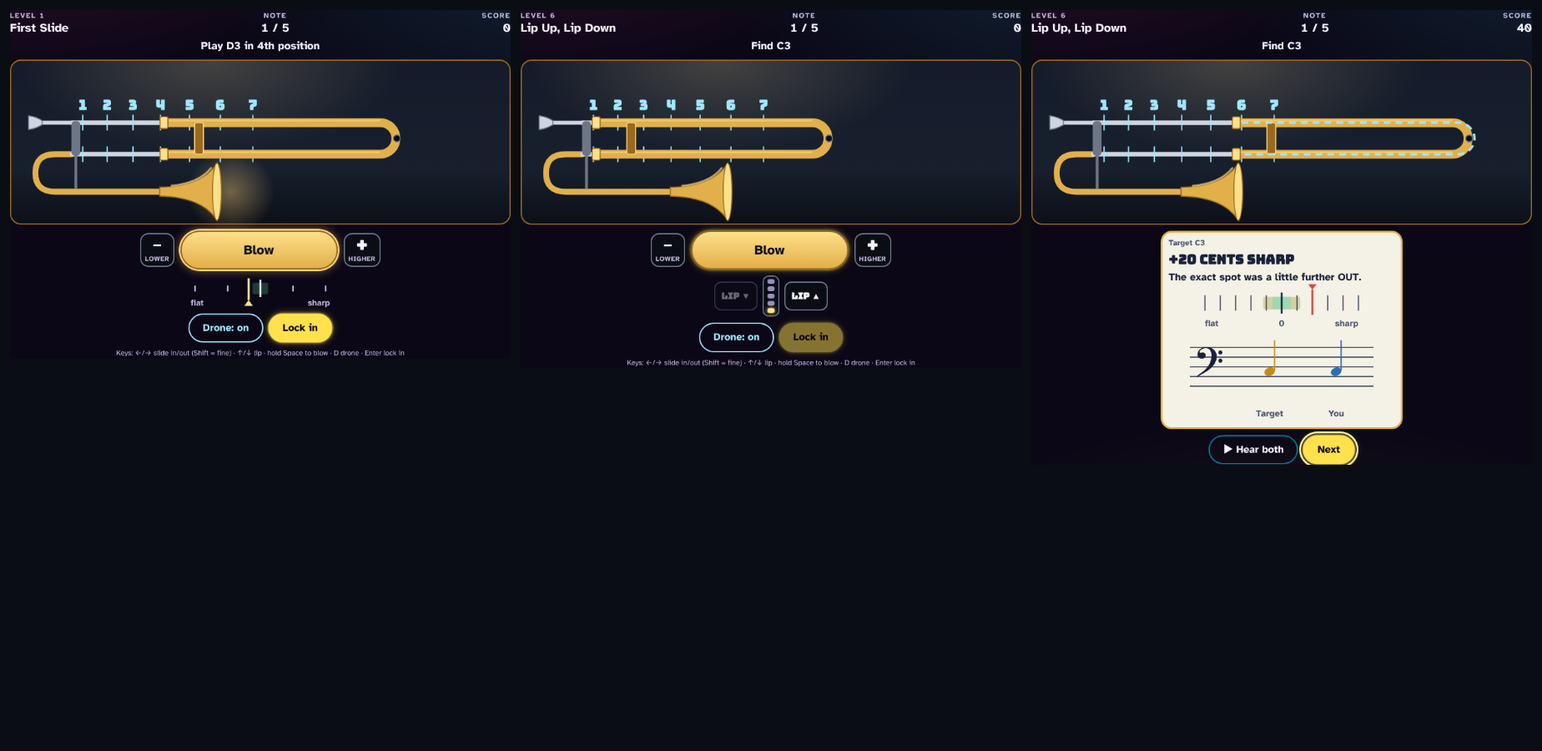
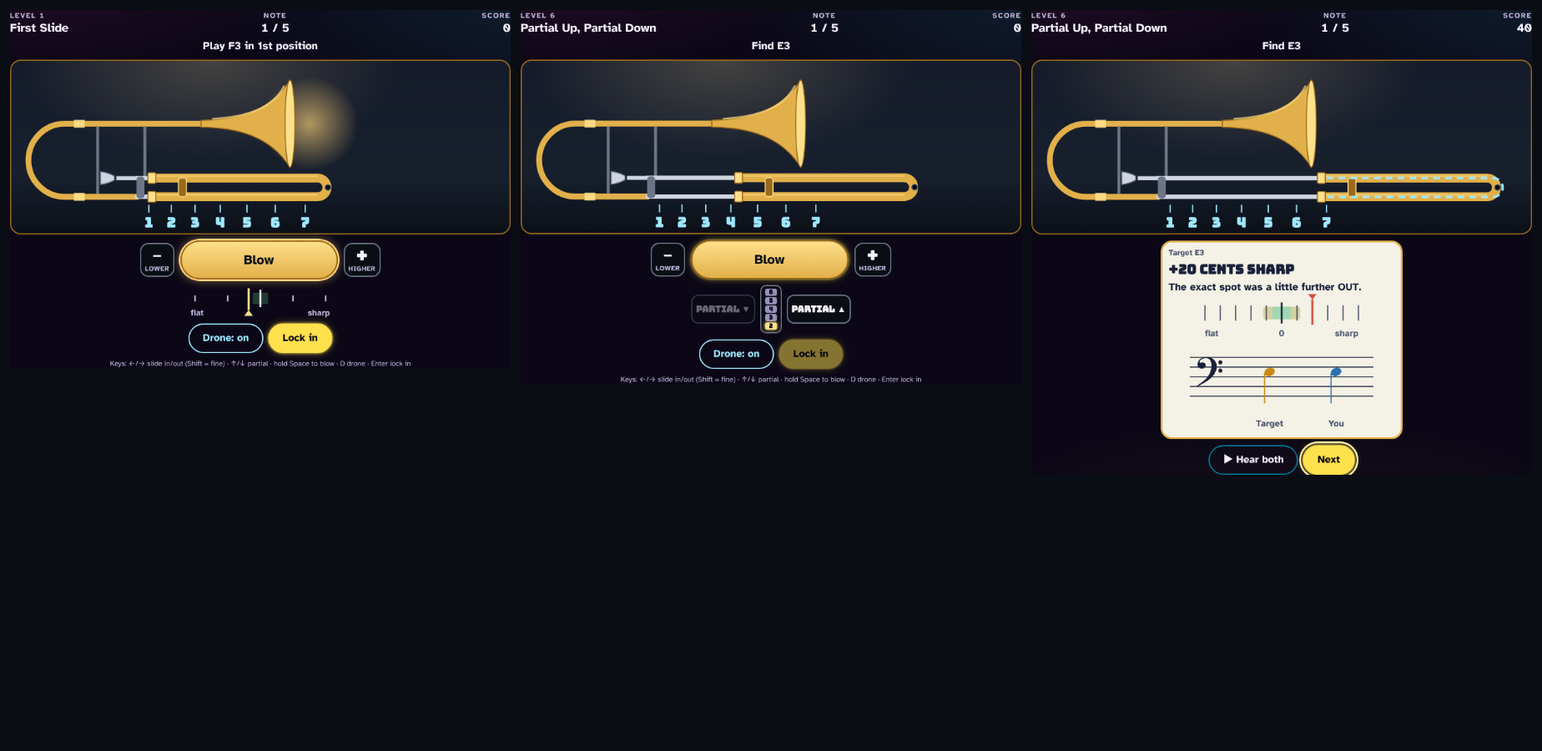
Slide Quest: a correctly assembled trombone; PARTIAL instead of LIP everywhere students read it
THE TROMBONE (game.js hornSVG), from Mr. Graham's reference photo: the bell section on top (the tuning slide's
crook at the far left, the bell ABOVE the slide pointing forward, the back tube to the slide lock, braces), the slide
underneath reaching past the bell (the mouthpiece pointing back at the player, chrome inner slide, brass outer slide
with crook, bumper, ferrules and grip). The marks move to a ruler under the slide so the moving tubes never hide them.
Travel = 340 of 1000 units (was 370), to fit the bell section. The level cards' icon and the cabinet screen's
little trombone get the same assembly (they had the bell below the slide).

PARTIAL: the buttons (PARTIAL ▲ / ▼), level 6 "Partial Up, Partial Down", the intros and ideas of levels 1, 6 and 8,
the key legend, "try another partial"; the ladder now shows the partial numbers (6 down to 2), the current one lit.
Code and test names (lips, lip(n), #lipUp/#lipDown) are unchanged.

Tests: the drag test's px-per-cm uses the new 340 units. docs/games/slide-quest.md and the gallery updated.

Claude-Session: https://claude.ai/code/session_01EHMqPSmL35a4mNPh642dX2

diff --git a/slide-quest/game.js b/slide-quest/game.js
@@ -25,50 +25,60 @@
   const gd = () => A.store.gameData(GAME_ID);
   const save = patch => { Object.assign(gd(), patch); A.store.saveGameData(GAME_ID); };
 
-  /* ================= THE TROMBONE (an SVG, seen from the side) =================
-     The viewBox's units: the mouthpiece and the bell section on the LEFT (fixed), the inner slide tubes (fixed, chrome)
-     and the OUTER SLIDE (brass, with its crook and the grip) that moves to the RIGHT: 0–60 cm of travel = `travel` units.
-     The marks sit on the inner slide where the outer slide's left edge (its ferrules) lines up for each position. */
-  const V = {w: 1000, h: 320, top: 118, bot: 182, in0: 118, in1: 560, out0: 140, out1: 580, travel: 370};
+  /* ================= THE TROMBONE (an SVG, seen from the side, assembled like the real thing) =================
+     Left to right, as a trombone looks from the side with the bell pointing forward (to the right):
+       THE BELL SECTION (fixed, brass): the TUNING SLIDE's crook at the far left joins its two tubes. The UPPER tube runs
+         forward and flares into the BELL, ABOVE the slide; the LOWER (back) tube runs forward under it to the slide lock.
+         Two braces hold them together; a third ties the bell tube to the inner slide's stocking.
+       THE SLIDE (below the bell, reaching past it): the MOUTHPIECE points back toward the player from the upper slide
+         tube; the INNER SLIDE (fixed, chrome) and the OUTER SLIDE (brass, with its crook, bumper and the grip) that moves
+         to the RIGHT: 0–60 cm of travel = `travel` units.
+     The marks sit on a ruler under the slide, where the outer slide's front edge (its ferrules) lines up for each
+     position, so they never hide behind the moving tubes. */
+  const V = {w: 1000, h: 340, top: 230, bot: 268, in0: 250, in1: 600, out0: 274, out1: 612, travel: 340,
+    bell: {y: 120, throat: 380, rim: 560, half: 88}, crook: 104, braceA: 170};
   const PXCM = V.travel / SLIDE.travel;
   const R = (V.bot - V.top) / 2;
   const outerPath = `M${V.out0} ${V.top}H${V.out1}A${R} ${R} 0 0 1 ${V.out1} ${V.bot}H${V.out0}`;
   function hornSVG({marks = true, tuning = 'ideal', mini = false} = {}) {
-    const by = 258;
-    let s = `<svg class="sq-horn${mini ? ' sq-mini' : ''}" viewBox="0 0 ${V.w} ${V.h}" ${mini ? 'aria-hidden="true"' : 'role="img" aria-label="A trombone seen from the side: the bell on the left, the slide on the right"'}>`;
+    const B = V.bell, by = B.y, cr = (V.bot - by) / 2, cy = (V.bot + by) / 2;
+    let s = `<svg class="sq-horn${mini ? ' sq-mini' : ''}" viewBox="0 0 ${V.w} ${V.h}" ${mini ? 'aria-hidden="true"' : 'role="img" aria-label="A trombone seen from the side: the bell on top pointing forward, the slide underneath reaching out to the right"'}>`;
     if (!mini) s += `<defs><radialGradient id="sqGlow"><stop offset="0" stop-color="var(--sq-glow)" stop-opacity=".85"/><stop offset="1" stop-color="var(--sq-glow)" stop-opacity="0"/></radialGradient></defs>` +
-      `<ellipse class="sq-bellglow" cx="440" cy="${by}" rx="90" ry="86" fill="url(#sqGlow)"/>`;
-    // the bell section: the lower inner tube runs back to the tuning slide's crook, then forward to the bell
-    s += `<path class="sq-tube" d="M${V.in0} ${V.bot}H84Q44 ${V.bot} 44 ${(V.bot + by) / 2}Q44 ${by} 84 ${by}H300"/>` +
-      `<path class="sq-bell" d="M296 ${by - 9}C352 ${by - 10} 392 ${by - 26} 412 ${by - 58}L412 ${by + 58}C392 ${by + 26} 352 ${by + 10} 296 ${by + 9}Z"/>` +
-      `<ellipse class="sq-rim" cx="412" cy="${by}" rx="9" ry="58"/>` +
-      `<path class="sq-shine" d="M320 ${by - 12}C360 ${by - 16} 386 ${by - 30} 400 ${by - 48}"/>` +
-      // the mouthpiece and the inner slide (fixed)
-      `<path class="sq-shank" d="M58 ${V.top}H${V.in0}"/><path class="sq-mp" d="M30 ${V.top - 14}Q46 ${V.top - 12} 58 ${V.top - 4}V${V.top + 4}Q46 ${V.top + 12} 30 ${V.top + 14}Z"/>` +
+      `<ellipse class="sq-bellglow" cx="${B.rim + 40}" cy="${by}" rx="100" ry="${B.half + 8}" fill="url(#sqGlow)"/>`;
+    // THE BELL SECTION: the back tube from the slide lock to the tuning slide's crook, round the crook, then forward to the bell
+    s += `<path class="sq-tube" d="M${V.in0} ${V.bot}H${V.crook}A${cr} ${cr} 0 0 1 ${V.crook} ${by}H${B.throat + 4}"/>` +
+      `<path class="sq-tslide" d="M${V.crook + 18} ${V.bot}H${V.crook + 40}M${V.crook + 18} ${by}H${V.crook + 40}"/>` +       // the tuning slide's ferrules
+      `<path class="sq-brace" d="M${V.braceA} ${by + 6}V${V.bot - 6}"/>` +
+      `<path class="sq-brace" d="M${V.in0 + 16} ${by + 6}V${V.top - 4}"/>` +
+      `<path class="sq-bell" d="M${B.throat} ${by - 7}C${B.throat + 74} ${by - 8} ${B.rim - 40} ${by - 25} ${B.rim} ${by - B.half}L${B.rim} ${by + B.half}C${B.rim - 40} ${by + 25} ${B.throat + 74} ${by + 8} ${B.throat} ${by + 7}Z"/>` +
+      `<ellipse class="sq-rim" cx="${B.rim}" cy="${by}" rx="10" ry="${B.half}"/>` +
+      `<path class="sq-shine" d="M${B.throat + 24} ${by - 10}C${B.throat + 90} ${by - 14} ${B.rim - 36} ${by - 30} ${B.rim - 12} ${by - B.half + 12}"/>` +
+      // THE SLIDE: the mouthpiece (pointing back at the player), the inner slide (fixed) and its stocking brace
+      `<path class="sq-shank" d="M${V.in0 - 42} ${V.top}H${V.in0}"/><path class="sq-mp" d="M${V.in0 - 74} ${V.top - 13}Q${V.in0 - 58} ${V.top - 11} ${V.in0 - 46} ${V.top - 4}V${V.top + 4}Q${V.in0 - 58} ${V.top + 11} ${V.in0 - 74} ${V.top + 13}Z"/>` +
       `<path class="sq-inner" d="M${V.in0} ${V.top}H${V.in1}M${V.in0} ${V.bot}H${V.in1}"/>` +
-      `<rect class="sq-brace" x="${V.in0 + 2}" y="${V.top}" width="12" height="${V.bot - V.top}" rx="4"/>` +
-      `<path class="sq-brace" d="M${V.in0 + 8} ${V.bot}V${by - 6}" />`;
-    // THE MARKS: the 7 positions at their TRUE spots (the gaps grow)
+      `<rect class="sq-brace" x="${V.in0 + 2}" y="${V.top}" width="10" height="${V.bot - V.top}" rx="3"/>`;
+    // THE MARKS: the 7 positions at their TRUE spots (the gaps grow), on a ruler under the slide
     s += `<g class="sq-marks"${mini ? '' : ' id="marks"'}${marks ? '' : ' hidden'}>`;
     for (let k = 1; k <= SLIDE.positions; k++) {
       const X = (V.out0 + SL.markX(k, tuning) * PXCM).toFixed(1);
-      s += `<path class="sq-mark" d="M${X} ${V.top - 16}V${V.top + 16}M${X} ${V.bot - 16}V${V.bot + 16}"/><text class="sq-mk" x="${X}" y="${V.top - 26}" text-anchor="middle">${k}</text>`;
+      s += `<path class="sq-mark" d="M${X} ${V.bot + 16}V${V.bot + 32}"/><text class="sq-mk" x="${X}" y="${V.bot + 62}" text-anchor="middle">${k}</text>`;
     }
     s += '</g>';
     // THE OUTER SLIDE (moves): the two tubes, the crook, the ferrules, the grip, and a hit area for the finger
     s += `<g class="sq-outer"${mini ? '' : ' id="outer" role="slider" aria-label="The slide: drag it out (lower) or in (higher)" aria-valuemin="0" aria-valuemax="' + SLIDE.travel + '"'}>` +
       `<path class="sq-otube" d="${outerPath}"/>` +
       `<path class="sq-otube-hi" d="M${V.out0 + 4} ${V.top - 4}H${V.out1}M${V.out0 + 4} ${V.bot - 4}H${V.out1}"/>` +
-      `<rect class="sq-ferrule" x="${V.out0 - 6}" y="${V.top - 12}" width="16" height="24" rx="3"/><rect class="sq-ferrule" x="${V.out0 - 6}" y="${V.bot - 12}" width="16" height="24" rx="3"/>` +
-      `<rect class="sq-grip" x="${V.out0 + 64}" y="${V.top}" width="18" height="${V.bot - V.top}" rx="5"/>` +
-      `<circle class="sq-bumper" cx="${V.out1 + R + 2}" cy="${(V.top + V.bot) / 2}" r="7"/>` +
-      (mini ? '' : `<rect class="sq-hit" x="${V.out0 - 24}" y="${V.top - 40}" width="${V.out1 + R - V.out0 + 48}" height="${V.bot - V.top + 80}"/>`) +
+      `<rect class="sq-ferrule" x="${V.out0 - 6}" y="${V.top - 11}" width="16" height="22" rx="3"/><rect class="sq-ferrule" x="${V.out0 - 6}" y="${V.bot - 11}" width="16" height="22" rx="3"/>` +
+      `<rect class="sq-grip" x="${V.out0 + 56}" y="${V.top}" width="16" height="${V.bot - V.top}" rx="5"/>` +
+      `<circle class="sq-bumper" cx="${V.out1 + R + 2}" cy="${(V.top + V.bot) / 2}" r="6"/>` +
+      (mini ? '' : `<rect class="sq-hit" x="${V.out0 - 24}" y="${V.top - 36}" width="${V.out1 + R - V.out0 + 48}" height="${V.bot - V.top + 72}"/>`) +
       `</g>`;
     // the ghost: where the exact spot was (after LOCK IN), drawn over the slide so it shows even when it's close
     if (!mini) s += `<g class="sq-ghost" id="ghost" hidden><path d="${outerPath}"/></g>`;
     return s + '</svg>';
   }
-  const SLIDE_ICON = `<svg viewBox="0 0 48 24" aria-hidden="true"><path class="si-bell" d="M4 15C10 15 13 13 15 9V22C13 18 10 16 4 16Z"/><path class="si-in" d="M6 6H30M6 12H30"/><path class="si-out" d="M20 6H38A3 3 0 0 1 38 12H20"/></svg>`;
+  /* the level cards' little trombone: the bell on top, the slide underneath (the same assembly as the big one) */
+  const SLIDE_ICON = `<svg viewBox="0 0 48 24" aria-hidden="true"><path class="si-out" d="M17 17H7A5 5 0 0 1 7 7H19"/><path class="si-bell" d="M18 6C24 6 27 4 29 1V13C27 10 24 8 18 8Z"/><path class="si-in" d="M13 15H36M13 19.5H36"/><path class="si-out" d="M19 15H42A2.25 2.25 0 0 1 42 19.5H19"/></svg>`;
 
   /* ================= THE LEVEL SELECT ================= */
   const prog = lv => A.store.level(GAME_ID, 'all', lv);
@@ -113,7 +123,7 @@
     $('lips').hidden = !L.lips;
     $('needle').hidden = !L.needle;
     $('droneBtn').hidden = L.ref !== 'drone';
-    $('ladder').innerHTML = SLIDE.partials.slice().reverse().map(n => `<i data-n="${n}"></i>`).join('');
+    $('ladder').innerHTML = SLIDE.partials.slice().reverse().map(n => `<i data-n="${n}">${n}</i>`).join('');
     A.holdGuard($('stage'), {lock: true});
     A.holdGuard($('blowBtn'), {lock: true});
     dragSlide($('outer'));
@@ -358,7 +368,7 @@
     ], {width: 320, label: `Target ${SL.label(r.target)}, you ${SL.label(Math.round(r.midi))} ${fmtCents(r.cents)}`});
   }
   function spotLine(r) {
-    if (r.wrongLip) return 'That was a different note: try another lip setting.';
+    if (r.wrongLip) return 'That was a different note: try another partial.';
     if (r.abs <= SCORING.bullseye) return 'Right there!';
     return `The exact spot was a little further ${r.spot > r.x ? 'OUT' : 'IN'}.`;
   }

diff --git a/slide-quest/levels.js b/slide-quest/levels.js
@@ -5,7 +5,7 @@
               partial about 14 cents flat at its mark; the tuning slide leaves room to push it up): slide.js
      partials the pool the targets come from (partials 2–6)
      focus    optional {partial, rounds}: at least this many of the level's rounds are on that partial
-     lips     true = LIP ▲ / ▼ choose the partial yourself (the round starts on another one); else it's locked to the
+     lips     true = PARTIAL ▲ / ▼ choose the partial yourself (the round starts on another one); else it's locked to the
               target's
      ref      'drone' = THE TUNING DRONE (held; DRONE ON/OFF; it starts ON by itself at the start of each round)
               'once'  = the note plays once, at the start of the round, and never again
@@ -16,7 +16,7 @@
               gameData('slide-quest').earLesson)
      flatTip  after LOCK IN on a 5th-partial target, add "5th-partial notes are flat at the mark: bring the slide IN" */
 window.SQ_LEVELS = [
-  {name: 'First Slide', idea: 'One lip setting, the marks and a needle. Make the beating stop.', tuning: 'ideal', partials: [3], lips: false, ref: 'drone', named: true, told: true, marks: true, needle: true, rounds: 5,
+  {name: 'First Slide', idea: 'One partial, the marks and a needle. Make the beating stop.', tuning: 'ideal', partials: [3], lips: false, ref: 'drone', named: true, told: true, marks: true, needle: true, rounds: 5,
    say: 'Blow into the horn and move the slide. Out = lower, in = higher. Listen to the drone with your note: hear the wah-wah-wah? The slower it beats, the closer you are. When it stops, you match!'},
   {name: 'Find the Spot', idea: 'Named notes. You find the position yourself.', tuning: 'ideal', partials: [2, 3, 4], lips: false, ref: 'drone', named: true, told: false, marks: true, needle: true, rounds: 5,
    say: 'Same game, but you find the position yourself. Notice: the marks get farther apart the farther out you go.'},
@@ -26,12 +26,12 @@ window.SQ_LEVELS = [
    say: 'Real trombones don\'t have marks on the slide. Players find each spot by ear. You can too.'},
   {name: 'From Memory', idea: 'The note plays ONCE. Find it from memory.', tuning: 'ideal', partials: [2, 3, 4], lips: false, ref: 'once', named: false, told: false, marks: false, needle: false, rounds: 5,
    say: 'The note plays once. Hold it in your head, then find it.'},
-  {name: 'Lip Up, Lip Down', idea: 'Your lips pick the note too: LIP ▲ ▼.', tuning: 'ideal', partials: [2, 3, 4, 5], lips: true, ref: 'drone', named: true, told: false, marks: true, needle: false, rounds: 5,
-   say: 'On a trombone your LIPS pick the note too. Each lip setting gives a different family of notes. Use LIP ▲ ▼ and the slide together.'},
+  {name: 'Partial Up, Partial Down', idea: 'Change partials to reach more notes: PARTIAL ▲ ▼.', tuning: 'ideal', partials: [2, 3, 4, 5], lips: true, ref: 'drone', named: true, told: false, marks: true, needle: false, rounds: 5,
+   say: 'On a trombone the slide isn\'t the only thing that picks the note. Each PARTIAL is a different family of notes, and your air and embouchure move you between them. Use PARTIAL ▲ ▼ and the slide together.'},
   {name: 'Real Horn', idea: 'Real horns aren\'t perfectly in tune. Move the slide IN.', tuning: 'real', partials: [3, 4, 5, 6], focus: {partial: 5, rounds: 3}, lips: true, ref: 'drone', named: true, told: true, marks: true, needle: false, rounds: 5, flatTip: true,
    say: 'Real horns aren\'t perfectly in tune. Some notes (like D in 1st position) sit a little flat at their mark. Start at the mark, then listen and move IN until the beats stop. Real players tune with a little room at the top, so they can move flat notes in.'},
-  {name: 'Trust Your Ears', idea: 'The slide, your lips and your ears. No help.', tuning: 'real', partials: [2, 3, 4, 5, 6], lips: true, ref: 'drone', named: false, told: false, marks: false, needle: false, rounds: 5,
-   say: 'Everything at once: the slide, your lips and your ears. No marks, no help. Trust your ears. They\'re the best tuner you own.'},
+  {name: 'Trust Your Ears', idea: 'The slide, the partials and your ears. No help.', tuning: 'real', partials: [2, 3, 4, 5, 6], lips: true, ref: 'drone', named: false, told: false, marks: false, needle: false, rounds: 5,
+   say: 'Everything at once: the slide, the partials and your ears. No marks, no help. Trust your ears. They\'re the best tuner you own.'},
 ];
 
 /* THE SCORING (Pedal Point's PP_SCORING): stars from the AVERAGE error of the level's notes (cents, either way).

diff --git a/shared/cabinets.js b/shared/cabinets.js
@@ -726,12 +726,15 @@ window.Arcade = window.Arcade || {};
         }
         x.stroke();
         if (!d) { x.globalAlpha = Math.min(1, (tt - 4.2) * 2); x.fillStyle = css('sq-brass-hi'); x.font = `700 ${H * .13}px "GN Display", sans-serif`; x.textAlign = 'center'; x.fillText('IN TUNE', W / 2, H * .55); x.globalAlpha = 1; }
-        // the trombone: the bell on the left, the slide moving IN as it comes into tune
-        const y1 = H * .7, y2 = H * .8, ext = W * .3 * d;
+        // the trombone, assembled like the real thing: the bell section on top (the tuning slide's crook at the left, the
+        // bell pointing forward), the slide underneath, moving IN as it comes into tune
+        const y1 = H * .7, y2 = H * .8, by = H * .6, ext = W * .3 * d;
         x.lineCap = 'round';
+        x.strokeStyle = css('sq-brass'); x.lineWidth = Math.max(1.5, H * .022);
+        x.beginPath(); x.moveTo(W * .14, y2); x.lineTo(W * .07, y2); x.arc(W * .07, (y2 + by) / 2, (y2 - by) / 2, Math.PI / 2, Math.PI * 1.5); x.lineTo(W * .16, by); x.stroke();
+        x.fillStyle = css('sq-brass'); x.beginPath(); x.moveTo(W * .15, by - H * .012); x.quadraticCurveTo(W * .26, by - H * .015, W * .3, by - H * .085); x.lineTo(W * .3, by + H * .085); x.quadraticCurveTo(W * .26, by + H * .015, W * .15, by + H * .012); x.closePath(); x.fill();
         x.strokeStyle = css('sq-chrome'); x.lineWidth = Math.max(1.5, H * .02);
         x.beginPath(); x.moveTo(W * .14, y1); x.lineTo(W * .62, y1); x.moveTo(W * .14, y2); x.lineTo(W * .62, y2); x.stroke();
-        x.fillStyle = css('sq-brass'); x.beginPath(); x.moveTo(W * .1, H * .86); x.quadraticCurveTo(W * .3, H * .87, W * .36, H * .78); x.lineTo(W * .36, H * .98); x.quadraticCurveTo(W * .3, H * .89, W * .1, H * .9); x.closePath(); x.fill();
         x.strokeStyle = css('sq-brass'); x.lineWidth = Math.max(2.5, H * .035);
         const o0 = W * .2 + ext, o1 = W * .64 + ext, r = (y2 - y1) / 2;
         x.beginPath(); x.moveTo(o0, y1); x.lineTo(o1, y1); x.arc(o1, y1 + r, r, -Math.PI / 2, Math.PI / 2); x.lineTo(o0, y2); x.stroke();

diff --git a/slide-quest/index.html b/slide-quest/index.html
@@ -47,11 +47,11 @@
         <button type="button" class="sq-nudge" id="nudgeUp" aria-label="Nudge the slide: a little higher (in)">+<small>higher</small></button>
       </div>
       <div class="sq-aids">
-        <!-- THE LIPS (levels with lips): the ladder shows where you are; the partial is never told in words -->
+        <!-- THE PARTIALS (levels with lips): PARTIAL ▲ ▼ and the ladder of partials 2–6, the current one lit -->
         <div class="sq-lips" id="lips" hidden>
-          <button type="button" class="sq-lip" id="lipDown" aria-label="Lip down: a lower family of notes">Lip ▼</button>
+          <button type="button" class="sq-lip" id="lipDown" aria-label="Partial down: the next lower partial">Partial ▼</button>
           <div class="sq-ladder" id="ladder" aria-hidden="true"></div>
-          <button type="button" class="sq-lip" id="lipUp" aria-label="Lip up: a higher family of notes">Lip ▲</button>
+          <button type="button" class="sq-lip" id="lipUp" aria-label="Partial up: the next higher partial">Partial ▲</button>
         </div>
         <!-- THE TUNER NEEDLE (levels 1–2): −50…+50 cents from the target, while the horn sounds -->
         <div class="sq-needle idle" id="needle" hidden aria-hidden="true">
@@ -65,7 +65,7 @@
         <button type="button" class="btn btn-secondary" id="droneBtn" aria-pressed="false">Drone: off</button>
         <button type="button" class="btn btn-primary" id="lockBtn" disabled>Lock in</button>
       </div>
-      <p class="sq-keys">Keys: ←/→ slide in/out (Shift = fine) · ↑/↓ lip · hold Space to blow · D drone · Enter lock in</p>
+      <p class="sq-keys">Keys: ←/→ slide in/out (Shift = fine) · ↑/↓ partial · hold Space to blow · D drone · Enter lock in</p>
     </div>
     <!-- after LOCK IN -->
     <div class="sq-feedback" id="feedback" hidden aria-live="polite"></div>

diff --git a/slide-quest/style.css b/slide-quest/style.css
@@ -44,6 +44,7 @@
 .sq-otube-hi{stroke:var(--sq-brass-hi);stroke-width:3;opacity:.6}
 .sq-ferrule{fill:var(--sq-brass-hi);stroke:var(--sq-brass-2);stroke-width:2}
 .sq-grip{fill:var(--sq-brass-2);stroke:var(--sq-brass-hi);stroke-width:2}
+.sq-tslide{stroke:var(--sq-brass-hi);stroke-width:16;opacity:.9}
 .sq-bumper{fill:var(--sq-night);stroke:var(--sq-chrome-2);stroke-width:2}
 .sq-hit{fill:transparent}
 .sq-outer{cursor:grab;touch-action:none}
@@ -71,10 +72,10 @@
 .sq-aids:not(:has(> :not([hidden]))){display:none}
 .sq-lips{display:flex;align-items:center;gap:8px}
 .sq-lips[hidden]{display:none}
-.sq-lip{min-width:72px;min-height:48px;border-radius:12px;border:2px solid var(--sq-chrome-2);background:var(--sq-night);color:var(--text-hi);font:700 15px var(--display);touch-action:manipulation}
+.sq-lip{min-width:96px;min-height:48px;border-radius:12px;border:2px solid var(--sq-chrome-2);background:var(--sq-night);color:var(--text-hi);font:700 15px var(--display);touch-action:manipulation}
 .sq-lip:disabled{opacity:.4}
-.sq-ladder{display:flex;flex-direction:column;gap:4px;padding:4px 6px;border-radius:10px;background:var(--sq-night);border:2px solid var(--sq-chrome-2)}
-.sq-ladder i{width:12px;height:8px;border-radius:4px;background:var(--mist-2)}
+.sq-ladder{display:flex;flex-direction:column;gap:2px;padding:4px 6px;border-radius:10px;background:var(--sq-night);border:2px solid var(--sq-chrome-2)}
+.sq-ladder i{min-width:20px;padding:0 3px;border-radius:4px;background:var(--mist-2);color:var(--sq-night);font:700 10px/12px var(--display);font-style:normal;text-align:center}
 .sq-ladder i.on{background:var(--sq-brass-hi);box-shadow:0 0 6px var(--sq-glow)}
 .sq-needle{width:min(240px,62vw)}
 .sq-needle[hidden]{display:none}

diff --git a/tests/slide-quest.spec.js b/tests/slide-quest.spec.js
@@ -456,7 +456,7 @@ for (const [name, vp, touch] of [['phone', {width: 390, height: 844}, true], ['i
     const s0 = await st(page);
     const crook = await page.locator('#outer .sq-bumper').boundingBox();
     const svgBox = await page.locator('#stage svg').boundingBox();
-    const k = svgBox.width / 1000 * (370 / 60);                         // screen px per cm
+    const k = svgBox.width / 1000 * (340 / 60);                         // screen px per cm (game.js V.travel 340 units = 60 cm)
     const x = crook.x - 20, y = crook.y + crook.height / 2;
     if (touch) {
       const fire = (type, xx) => page.locator('#outer').dispatchEvent(type, {pointerId: 7, pointerType: 'touch', isPrimary: true, clientX: xx, clientY: y, bubbles: true});

diff --git a/docs/games/slide-quest.md b/docs/games/slide-quest.md
@@ -31,15 +31,15 @@ A tenor trombone in B♭. The pitch is exact math, so the score is exact.
 
 ## The screen and the controls
 
-- THE STAGE (`--sq-*` tokens in theme.css): a dark stage under a warm spotlight and the trombone seen from the side, the full width of the play area (an SVG, `game.js hornSVG`): the mouthpiece and the bell section on the LEFT (fixed), the chrome inner slide tubes (fixed) and the brass OUTER SLIDE (its U-shaped crook, the ferrules at its open end and the grip) moving to the RIGHT. 0–60 cm of travel = 370 of the drawing's 1000 units. While the horn sounds the bell glows softly (a 0.35 s fade; no flashing).
+- THE STAGE (`--sq-*` tokens in theme.css): a dark stage under a warm spotlight and the trombone seen from the side, the full width of the play area (an SVG, `game.js hornSVG`), ASSEMBLED LIKE A REAL ONE (Mr. Graham's reference photo): THE BELL SECTION (fixed, brass) has the tuning slide's crook at the far left joining its two tubes; the upper tube flares into the BELL, ABOVE the slide and pointing forward (right); the lower back tube runs under it to the slide lock; braces between them and to the inner slide's stocking. THE SLIDE runs underneath and reaches past the bell: the MOUTHPIECE pointing back at the player from the upper slide tube, the chrome inner slide tubes (fixed) and the brass OUTER SLIDE (its U-shaped crook and bumper, the ferrules at its open end and the grip) moving to the RIGHT. 0–60 cm of travel = 340 of the drawing's 1000 units (`V.travel`). The level cards' little icon is the same assembly. While the horn sounds the bell glows softly (a 0.35 s fade; no flashing).
 - THE SLIDE GRIP: drag the outer slide anywhere on it (pointer capture, `touch-action: none`, `Arcade.holdGuard({lock})`); it moves from where it is and never jumps to the finger. Out = right = lower. NUDGE − / + move it 2 cents' worth (`RULES.nudgeCents`): essential on phones, where 1 cent near 7th position is under a pixel.
-- THE MARKS (levels with `marks`): the 7 positions as thin lines on the inner slide at their TRUE spots (where the outer slide's ferrules line up), numbered 1–7, so the uneven gaps are visible. In real-tuning levels they sit at the chart spots, so a 5th-partial note at its mark really is flat.
+- THE MARKS (levels with `marks`): the 7 positions as ticks on a ruler UNDER the slide at their TRUE spots (where the outer slide's ferrules line up), numbered 1–7 (under the slide, so the moving tubes never hide them), so the uneven gaps are visible. In real-tuning levels they sit at the chart spots, so a 5th-partial note at its mark really is flat.
 - BLOW (the big gold button): a TAP toggles (so mouse users can blow and drag at once); a press HELD longer than `RULES.holdMs` 350 ms stops on release (one thumb on an iPad while the other hand slides, like the real instrument); Space = hold to blow.
 - DRONE: ON / OFF (levels with `ref: 'drone'`): it starts ON by itself at the start of each round. In a `ref: 'once'` level the note plays once by itself (`RULES.onceSec` 2 s) and never again (the button is hidden; D is refused); a PAUSE during it plays it again, free, on RESUME.
-- LIP ▲ / LIP ▼ (levels with `lips`): a small ladder of 5 dots (partials 2–6), the current one lit; ↑/↓. The partial is never told in words while tuning.
+- PARTIAL ▲ / PARTIAL ▼ (levels with `lips`; the field keeps its saved name): a small ladder of the partials, numbered 6 down to 2, the current one lit; ↑/↓. The word is PARTIAL everywhere a student reads it (Mr. Graham teaches the term early): the buttons, the level names and intros, the key legend, "try another partial" after a lock-in on the wrong partial. Partials are numbered from the pedal B♭1 as 1st, so B♭2 = the 2nd partial, F3 = the 3rd. Code and test names (`lips`, `lip(n)`, `#lipUp` / `#lipDown`) are unchanged.
 - THE TUNER NEEDLE (levels 1–2 only, `needle`): a small −50…+50 cent needle relative to the TARGET, moving live while you blow (green inside the 3 ★ zone). No other pitch display while tuning: no live note name, no numbers.
 - LOCK IN: disabled until the horn has sounded this round (a blow, even with SOUND OFF), so the slide is never placed by eye alone. It scores the pitch at the current slide and partial, sounding or not.
-- KEYBOARD: ←/→ slide in/out by 5 cents' worth (Shift = 1 cent), ↑/↓ lip up/down, Space = blow (hold), D = drone on/off (or the once-only note), Enter = LOCK IN, then NEXT.
+- KEYBOARD: ←/→ slide in/out by 5 cents' worth (Shift = 1 cent), ↑/↓ partial up/down, Space = blow (hold), D = drone on/off (or the once-only note), Enter = LOCK IN, then NEXT.
 - AFTER LOCK IN (never during tuning): the error in words ("+7 cents sharp", "−14 cents flat", "Right on: 0 cents"), the cents meter with the 2 ★ and 3 ★ zones, the target (gold) and the student's note on a small bass-clef staff (`A.staffSVG`), a dashed GHOST OUTLINE of the slide at the EXACT spot (for the lip setting used) with "The exact spot was a little further OUT / IN." (or "Right there!" within 3 cents; on another lip setting's note: "That was a different note: try another lip setting."), then the horn and the drone together for `RULES.bothSec` 1.6 s (▶ HEAR BOTH again), and NEXT. Level 7 (`flatTip`) adds for a 5th-partial target: "5th-partial notes are flat at the mark: bring the slide IN a little."
 
 ## The levels (`levels.js`: `SQ_LEVELS`, saved by number: never reorder), the shared LEVEL SELECT PATTERN
@@ -53,7 +53,7 @@ Each level starts with its intro (`UI.intro`: its `say`, LET'S PLAY! / LEVELS). 
 | 3 | Ears Only | ideal | 2–4 | – | drone | – | – | ✓ | – |
 | 4 | No Marks | ideal | 2–4 | – | drone | – | – | – | – |
 | 5 | From Memory | ideal | 2–4 | – | once | – | – | – | – |
-| 6 | Lip Up, Lip Down | ideal | 2–5 | ✓ | drone | ✓ | – | ✓ | – |
+| 6 | Partial Up, Partial Down | ideal | 2–5 | ✓ | drone | ✓ | – | ✓ | – |
 | 7 | Real Horn | real | 3–6 (3 of the 5 rounds on partial 5) | ✓ | drone | ✓ | ✓ | ✓ | – |
 | 8 | Trust Your Ears | real | 2–6 | ✓ | drone | – | – | – | – |
 
@@ -72,7 +72,7 @@ Each level starts with its intro (`UI.intro`: its `say`, LET'S PLAY! / LEVELS). 
 ## Arcade integration
 
 - games.js: `color: 'cyan'`, `skill: 'Finding pitch by ear'`, `menuMusic: 'slide-quest-menu'` (a loop slot in sounds.js, screen `slide-quest`; uploaded: `shared/sounds/slide-quest-menu.mp3`, about −16 LUFS like the other menus, so `vol` stays .45), and START on the floor plays `select-slide-quest.mp3`, faded out as a level starts (tuning needs quiet), back with the results. Effects (UNPITCHED noise, `mic: false`): `sq-lock` (LOCK IN), `sq-star` (a bullseye) (copies of `pp-lock` and `pp-star`); shared `level-complete`, `level-failed`, `star-earned`, `new-high-score`.
-- The look: cabinet `shape: 'trombone'` (a brass bell lying across the top over the marquee, the slide down the lower right of the face: chrome inner tubes, the brass outer slide with its crook and grip), `screen: 'trombone'` (a canvas: two waves BEATING slower and slower as the slide moves in, then a steady gold wave and IN TUNE; 6 s loop, 2D and 3D), lettering `bungee`, marquee scene `slide` (a trombone at the left end under a soft spotlight, its slide gliding slowly in and out: one smooth sine, never a flash), menu background `slide` (a stage at night: a deep blue curtain, a trombone section's silhouettes at the edges under breathing spotlights, dust in the light, dimmed like Pedal Point's; `STILL` 3), 3D profile `trombone` with a `bell` topper (a brass flare opening toward the aisle, a neon ring in the second trim color). See [backgrounds-cabinets-marquees.md](../engine/backgrounds-cabinets-marquees.md).
+- The look: cabinet `shape: 'trombone'` (a brass bell lying across the top over the marquee, the slide down the lower right of the face: chrome inner tubes, the brass outer slide with its crook and grip), `screen: 'trombone'` (a canvas: two waves BEATING slower and slower as the slide moves in, then a steady gold wave and IN TUNE; its little trombone is assembled like the real one: the bell section on top with the tuning slide's crook at the left, the slide underneath; 6 s loop, 2D and 3D), lettering `bungee`, marquee scene `slide` (a trombone at the left end under a soft spotlight, its slide gliding slowly in and out: one smooth sine, never a flash), menu background `slide` (a stage at night: a deep blue curtain, a trombone section's silhouettes at the edges under breathing spotlights, dust in the light, dimmed like Pedal Point's; `STILL` 3), 3D profile `trombone` with a `bell` topper (a brass flare opening toward the aisle, a neon ring in the second trim color). See [backgrounds-cabinets-marquees.md](../engine/backgrounds-cabinets-marquees.md).
 - TODAY'S PRACTICE: not in any skill rotation yet (`shared/practice.js`); Mr. Graham decides later.
 
 ## Tests (`tests/slide-quest.spec.js`)
@@ -80,6 +80,6 @@ Each level starts with its intro (`UI.intro`: its `say`, LET'S PLAY! / LEVELS). 
 - THE PHYSICS: the marks' cm in both modes, the gaps grow, each mark × partial = the chart note (0 cents ideal; the harmonic error real, partial 5 −13.7 ± 0.1), `room` = +20 cents against the stops, `spotFor` round-trips (and null out of reach), `waysTo` covers every TROMBONE chart entry on partials 2–6, the spellings.
 - THE SOUND: the horn's live frequency follows `setSlide` (Chromium); a glide and a lip slur keep the same voice; the drone + horn BEAT check (an OfflineAudioContext render 3 Hz apart → a 3 Hz envelope; in tune, almost none); nothing with SOUND OFF or while `Pitch.listening()` is forced true; no `getUserMedia` call and no `Arcade.Pitch`, with no instrument chosen.
 - THE LEVELS: each level's flags on the screen (named, told, marks, needle, drone vs once, lips), the drone ON at the start / the once note once, no note name while tuning; LOCK IN disabled before the first blow; `auto()` = 0 cents and 3 ★; a level of 30-cent misses saves nothing; targets never repeat; the start ≥ 150 cents away (and, with lips, on a partial that can't play it); level 7's ≥ 3 partial-5 rounds and its mark-placed answer ≈ −14 cents with the IN line; the ear lesson once.
-- THE CONTROLS: the keyboard map; BLOW's tap and hold; NUDGE; drag by touch and by mouse from where it is; the layout at a phone, an iPad both ways and a Chromebook (every control on screen, NUDGE / LIP / BLOW ≥ 44 px, the slide full width, nothing wider than the screen). Smoke, the game runs and phone-width cover the page automatically.
-- `GALLERY=1` saves `docs/gallery/slide-quest.png`: level 1 (marks, needle), level 6 (lips) and an after-lock-in screen with the ghost slide, for Mr. Graham's review.
+- THE CONTROLS: the keyboard map; BLOW's tap and hold; NUDGE; drag by touch and by mouse from where it is; the layout at a phone, an iPad both ways and a Chromebook (every control on screen, NUDGE / PARTIAL / BLOW ≥ 44 px, the slide full width, nothing wider than the screen). Smoke, the game runs and phone-width cover the page automatically.
+- `GALLERY=1` saves `docs/gallery/slide-quest.png`: level 1 (marks, needle), level 6 (partials) and an after-lock-in screen with the ghost slide, for Mr. Graham's review.
 - `tests/games.js` STEPS: the game run presses LET'S PLAY!, then A + Enter, Enter. `?demo` (`Arcade.SlideQuest`): `state()`, `begin(lv)`, `intro(lv)`, `auto()` (the slide and partial EXACTLY on the target; it also counts as a blow, so A + Enter locks in), `wrong()` (30 cents sharp; where the slide can't go sharper, 1st position in ideal tuning, 30 flat), `lock()`, `next()`, `setSlide(x)`, `lip(n)`, `blow(on)`, `drone(on)`, `reference()`, `nudge(c)`, `starsFor(avg)`, `pointsFor(c)`; keys A = auto, W = wrong.
